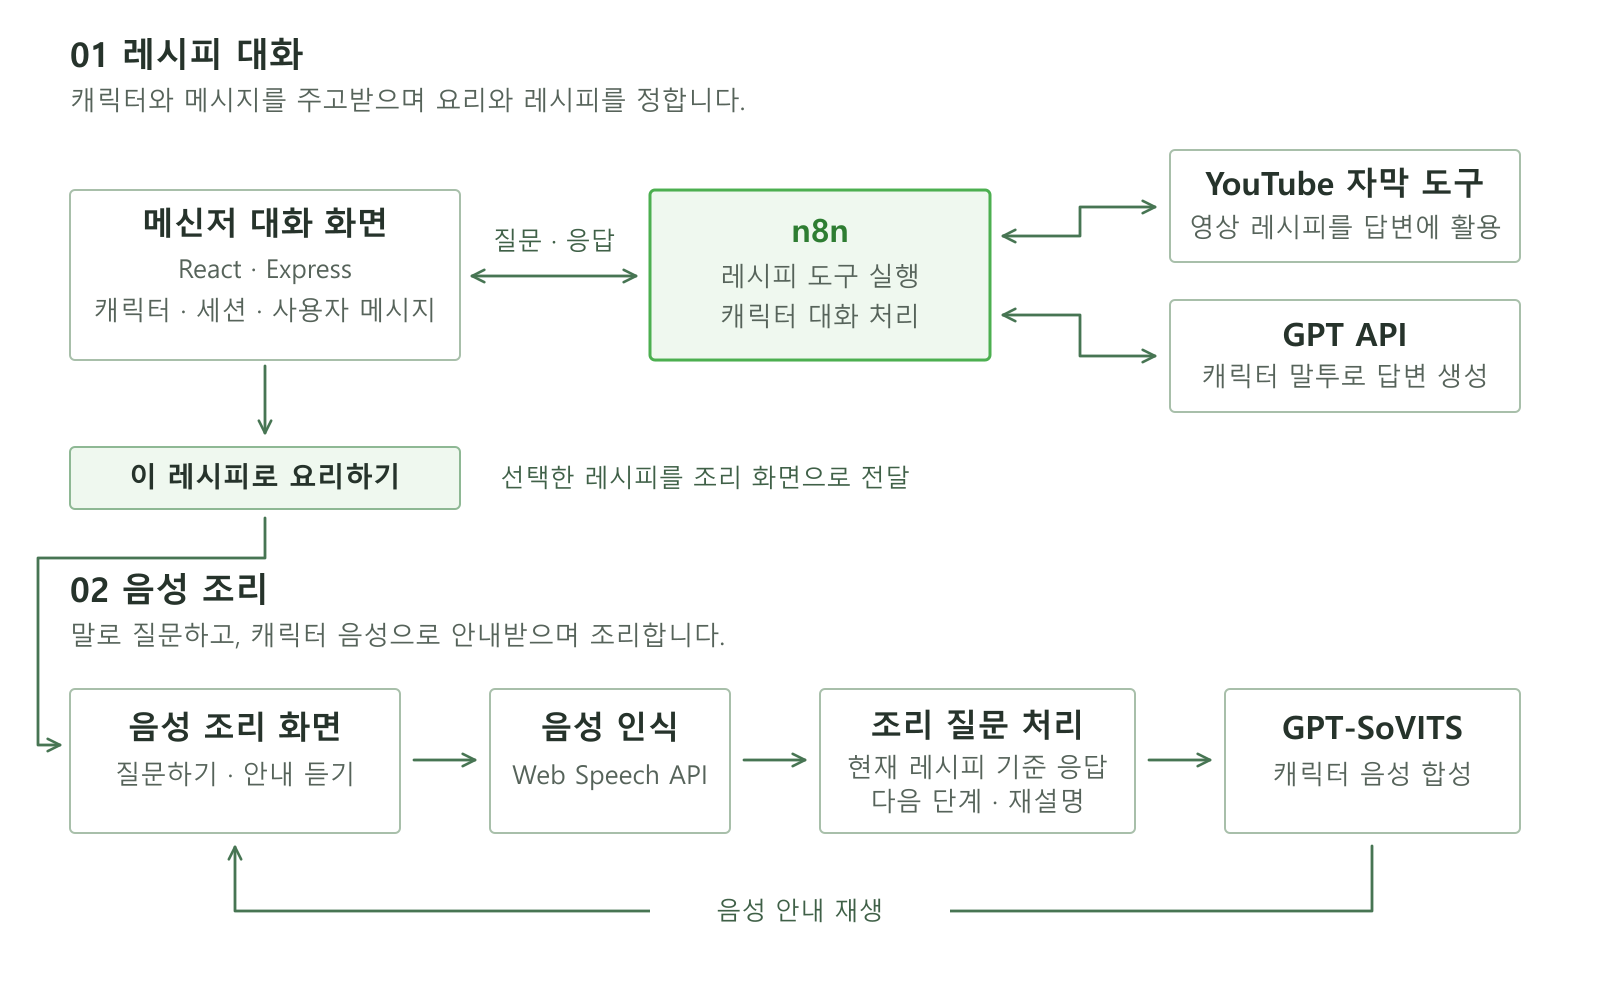
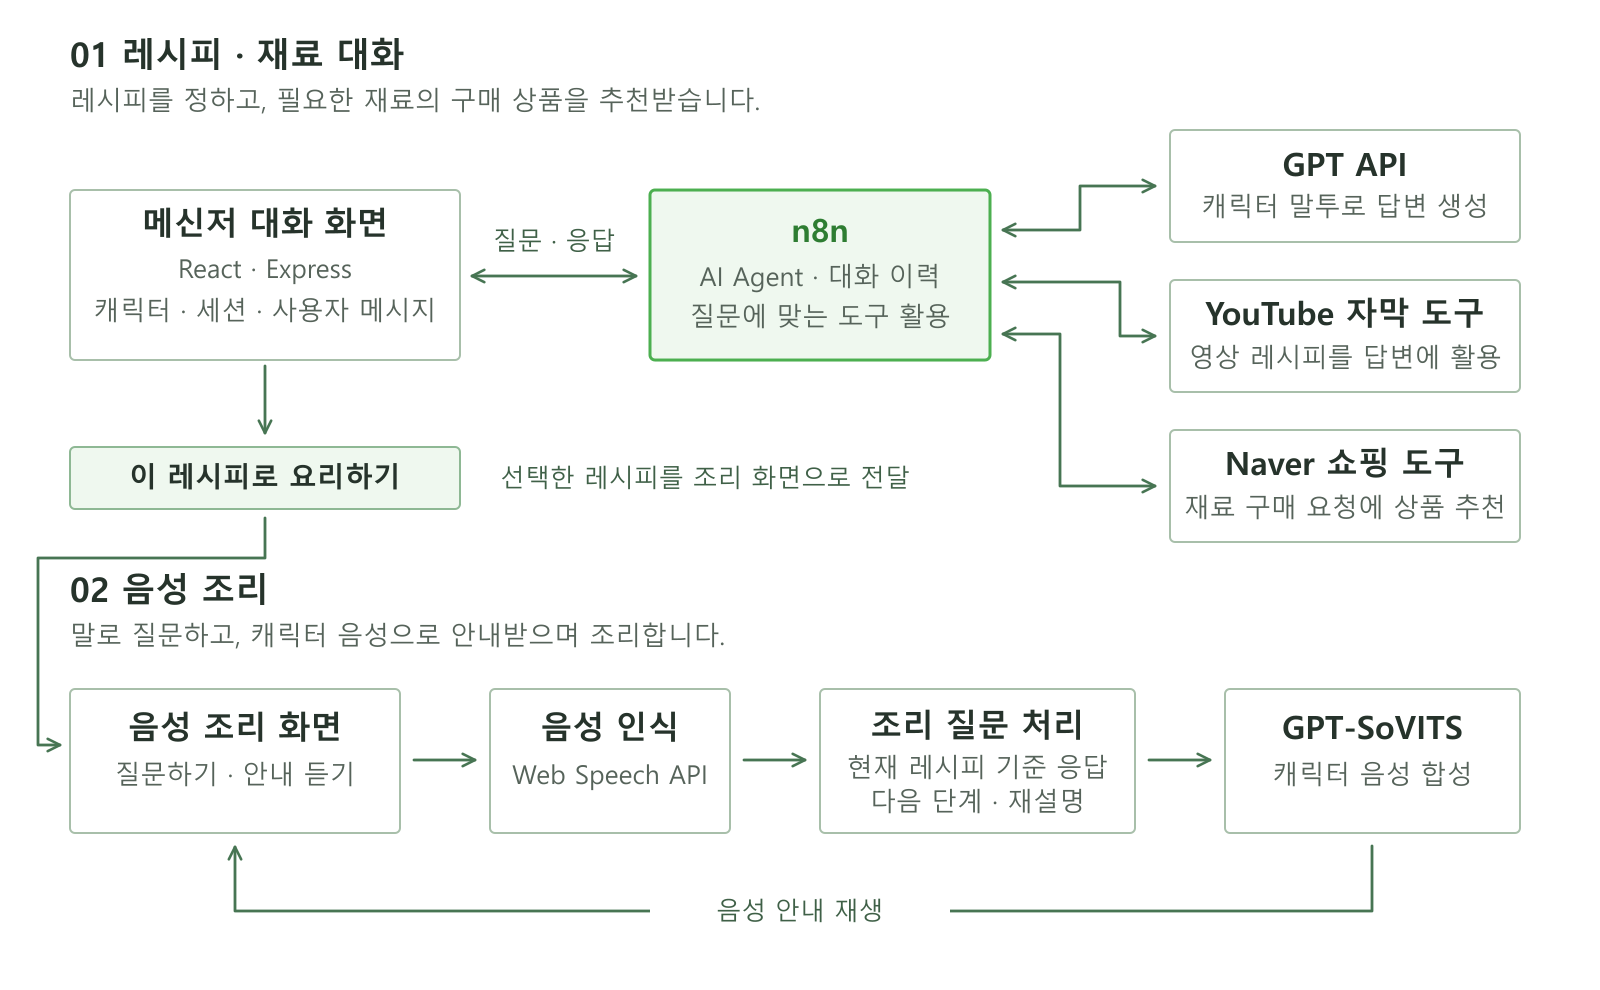
Document actual n8n workflow and chat-based ingredient shopping

diff --git a/docs/DEVELOPMENT_HISTORY.md b/docs/DEVELOPMENT_HISTORY.md
@@ -1,11 +1,11 @@
 # 개발 이력과 코드 구분
 
-장금이는 개발 과정에서 사용 흐름을 바꿨습니다. 초기에는 사진이나 검색어로 레시피를 조회하고 재료를 찾는 기능을 만들었고, 최종적으로는 **캐릭터와 대화로 레시피를 정한 뒤 음성으로 조리하는 방식**에 집중했습니다.
+장금이는 개발 과정에서 사용 흐름을 바꿨습니다. 초기에는 사진이나 검색어로 레시피를 조회하고 별도 화면에서 재료를 찾는 기능을 만들었습니다. 최종적으로는 **캐릭터와 대화로 레시피를 정하고 필요한 재료를 추천받은 뒤, 음성으로 조리하는 방식**으로 구성했습니다.
 
 ## 최종 서비스 흐름
 
 1. 캐릭터를 선택하고 메신저형 대화창을 엽니다.
-2. n8n을 통해 질문과 답변을 주고받으며 레시피를 확인합니다.
+2. n8n을 통해 질문과 답변을 주고받으며 레시피를 확인합니다. 재료 구매를 요청하면 `naver_shopping` 도구로 상품을 추천합니다.
 3. '이 레시피로 요리하기'를 눌러 레시피를 조리 화면으로 가져갑니다.
 4. 조리 중에는 음성으로 질문하고 캐릭터 음성으로 안내받습니다.
 
@@ -15,7 +15,7 @@
 |---|---|---|
 | 음식 사진 업로드 후 GPT API로 레시피 조회 | `MainApp.js`의 사진 입력, `server.js`의 `/upload` 내 `imageUrl` 처리 분기, Firebase 설정 | 초기 레시피 탐색 방식. 최종 메신저형 대화의 구조도에서는 제외 |
 | 별도 화면에서 검색어로 레시피 조회 | `MainApp.js`의 직접 검색 UI | 초기 조회 화면. n8n 대화창과 구분 |
-| Naver 쇼핑을 통한 재료 검색 | `PurchasePage.js`, `server.js`의 `/api/search`, Naver API 설정 | 초기 부가 기능. 최종 주요 기능과 담당 작업 설명에서는 제외 |
+| 별도 구매 화면의 재료 검색 | `PurchasePage.js`, `server.js`의 `/api/search`, Naver API 설정 | 초기 별도 화면. 최종 채팅에서 사용하는 n8n의 `naver_shopping` 도구와 구분 |
 
 ## 초기 파일에서 계속 사용하는 부분
 
@@ -25,7 +25,9 @@
 - [MainApp.js](../front/src/components/MainApp.js)는 사진·직접 검색 UI와 함께, 대화에서 전달받은 `recipeText`를 `/upload`의 텍스트 처리로 구조화한 뒤 조리 화면으로 넘기는 코드도 포함합니다. 따라서 파일 전체를 미사용으로 분류하지 않았습니다.
 - [CookingAssistant.js](../front/src/components/CookingAssistant.js)의 음성 입력, `/assistant` 질문 처리, `/tts` 음성 재생은 조리 흐름을 이해할 때 참고할 부분입니다.
 
-n8n 전체 워크플로우와 음성 모델 실행 환경은 외부에서 구성했습니다. 보관된 웹 코드만으로 당시 외부 환경 전체를 재현할 수는 없습니다.
+n8n의 `naver_shopping`은 최종 채팅에서 재료 구매 요청에 응답하는 도구로 사용했습니다.
+
+n8n 구성은 [개발 당시 스크린샷](images/n8n-workflow.png)으로 확인할 수 있습니다. 실행용 워크플로우 JSON과 음성 모델 실행 환경은 저장소에 포함하지 않았으므로, 보관된 웹 코드만으로 당시 외부 환경 전체를 재현할 수는 없습니다.
 
 ## 공개용 문서 정리
 

diff --git a/docs/SETUP.md b/docs/SETUP.md
@@ -1,6 +1,6 @@
 # 실행 안내
 
-최종 사용 흐름은 **캐릭터 선택 → n8n 대화 → 레시피 선택 → 음성 조리**입니다. 저장소에는 이 흐름에 사용한 웹 소스와 함께 초기 사진 검색·쇼핑 코드도 남아 있습니다. 각 파일의 용도는 [개발 이력과 코드 구분](DEVELOPMENT_HISTORY.md)을 참고하세요.
+최종 사용 흐름은 **캐릭터 선택 → n8n 대화 → 레시피 선택 → 음성 조리**입니다. 저장소에는 이 흐름에 사용한 웹 소스와 함께 초기 사진 검색·별도 구매 화면 코드도 남아 있습니다. 각 파일의 용도는 [개발 이력과 코드 구분](DEVELOPMENT_HISTORY.md)을 참고하세요.
 
 ## 기본 환경
 
@@ -24,7 +24,7 @@ npm start
 | 구분 | 준비 사항 |
 |---|---|
 | 웹 서버 | `JWT_SECRET`, `MONGO_URI`, `OPENAI_API_KEY` 등 루트 환경변수 예시의 기본 설정 |
-| 메신저형 대화 | `N8N_WEBHOOK_URL`, 별도로 구동하는 n8n 워크플로우와 그 안에서 사용하는 모델·도구 설정 |
+| 메신저형 대화 | `N8N_WEBHOOK_URL`, 별도로 구동하는 n8n 워크플로우의 모델·메모리·자막 및 쇼핑 도구 설정 |
 | 캐릭터 음성 | `TTS_BAEK_URL` 등 음성 서버 주소, GPT-SoVITS 모델과 참조 음성 |
 | 브라우저 음성 입력 | 마이크 권한과 Web Speech API를 지원하는 브라우저 |
 | 프론트엔드 API 주소 | `REACT_APP_API_BASE_URL` |
@@ -41,13 +41,13 @@ npm start
 
 ## 초기 기능의 설정
 
-Firebase 사진 업로드와 Naver 쇼핑 검색은 초기 구현입니다. 이를 최종 레시피 대화의 기능이나 필수 서비스 구성으로 소개하지 않습니다.
+Firebase 사진 업로드와 `PurchasePage.js`의 별도 구매 화면은 초기 구현입니다. 채팅에서 상품을 추천하는 n8n의 `naver_shopping` 도구와는 별개입니다.
 
-초기 화면을 별도로 실행하려면 해당 Firebase 설정과 Naver의 `CLIENT_ID`, `CLIENT_SECRET`이 필요합니다. 관련 코드의 위치는 [개발 이력](DEVELOPMENT_HISTORY.md)에 기록했습니다.
+초기 화면을 실행하려면 Firebase 설정과 Express `/api/search`용 Naver `CLIENT_ID`, `CLIENT_SECRET`이 필요합니다. n8n 쇼핑 도구의 인증과 입력은 해당 워크플로우에서 별도로 설정해야 합니다. 관련 코드의 위치는 [개발 이력](DEVELOPMENT_HISTORY.md)에 기록했습니다.
 
 ## 실행 확인 범위
 
-- n8n 전체 워크플로우, FastAPI·음성 추론 서버, 음성 학습 데이터와 가중치는 별도로 준비해야 합니다.
+- n8n은 [구성 스크린샷](images/n8n-workflow.png)을 공개했습니다. 실행용 워크플로우 JSON, FastAPI·음성 추론 서버, 음성 학습 데이터와 가중치는 별도로 준비해야 합니다.
 - 공개용 정리 시 서버·프론트엔드 `npm ci`, 서버 문법 검사, 프론트엔드 배포 빌드를 확인했습니다. 외부 서비스를 모두 구동한 재실행은 하지 않았습니다.
 - 보관 소스의 회원·로그인·기록 처리와 타이머 카운트다운·종료 알림에는 미완성 부분이 있습니다. 최종 사용 흐름의 핵심 기능으로 소개하지 않았습니다.
 

diff --git a/docs/CURATION.md b/docs/CURATION.md
@@ -13,6 +13,6 @@
 
 ## 최종 서비스와 초기 구현 구분
 
-README의 시스템 구조를 n8n 메신저형 대화와 음성 조리 흐름에 맞춰 정리했습니다. 사진 업로드·GPT 직접 레시피 조회와 Naver 쇼핑은 초기 구현으로 구분했습니다.
+README의 시스템 구조를 n8n 메신저형 대화와 음성 조리 흐름에 맞춰 정리했습니다. 사진 업로드·GPT 직접 레시피 조회와 별도 구매 화면은 초기 구현으로 구분했습니다. 채팅에서 재료 구매 요청을 처리하는 n8n의 `naver_shopping`은 최종 도구 구성에 포함했습니다.
 
-이번 수정은 문서 설명을 바로잡은 작업이며, 웹과 서버의 동작 코드는 변경하지 않았습니다. 초기 코드와 최종 흐름이 한 파일에 섞인 부분은 [개발 이력](DEVELOPMENT_HISTORY.md)에 기록했습니다.
+실제 n8n 워크플로우 스크린샷을 추가하고, 채팅 내 상품 추천 시연과 시스템 구조도에 쇼핑 도구를 반영했습니다. 이번 수정은 문서 설명을 바로잡은 작업이며, 웹과 서버의 동작 코드는 변경하지 않았습니다. 초기 코드와 최종 흐름이 한 파일에 섞인 부분은 [개발 이력](DEVELOPMENT_HISTORY.md)에 기록했습니다.
